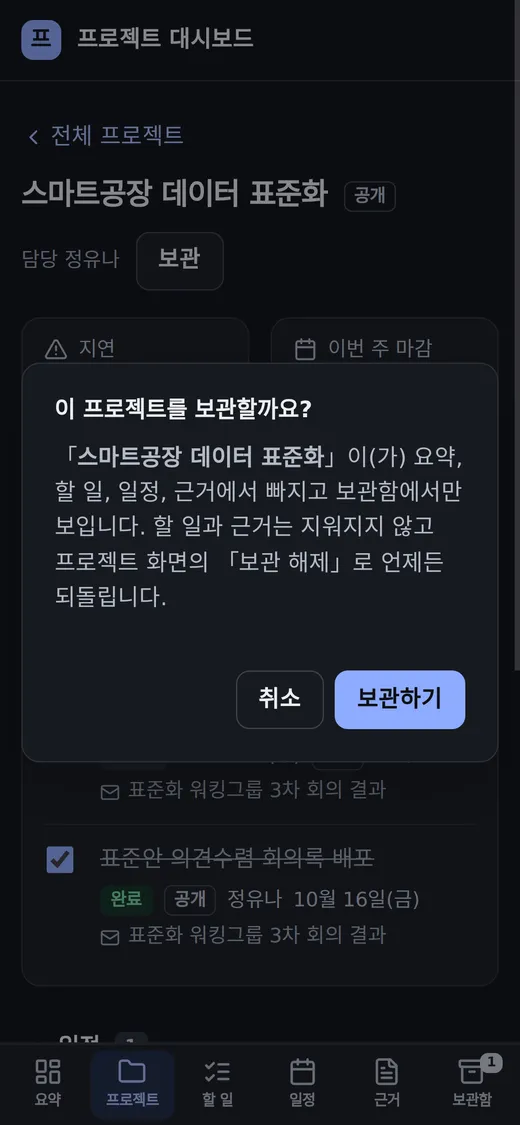
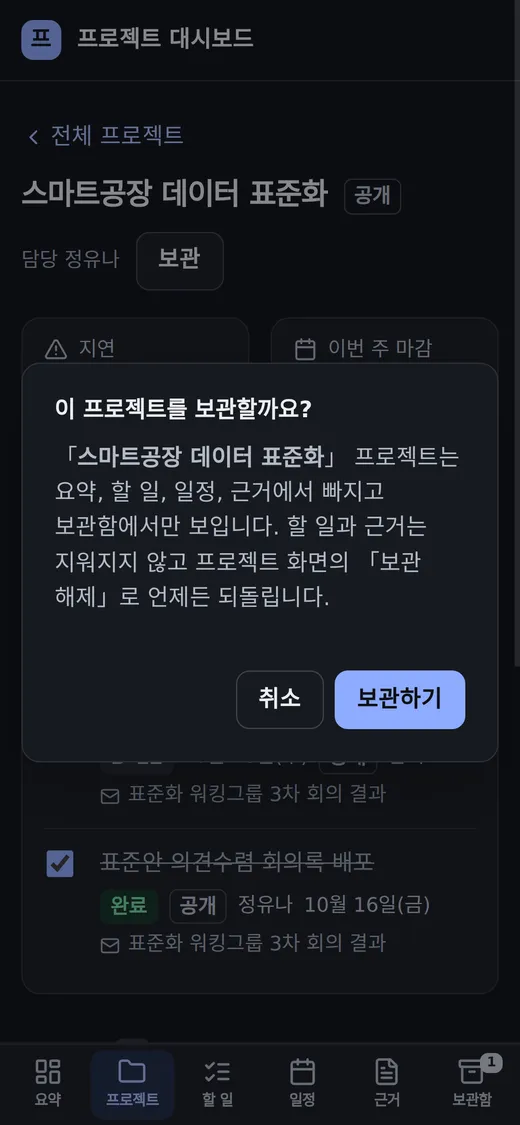
fix(project-board): visual QA round 3 - dates, compound nouns and short predicates kept together on phones, larger phone badges, a dialog sentence without the 이(가) template

diff --git a/automation/project_board/dashboard.py b/automation/project_board/dashboard.py
@@ -38,7 +38,7 @@ _SERVED_JS: Final = """
     var code=String(error&&error.message||'');
     if(code==='401'||code==='403'){return '권한이 없어 저장하지 못했습니다. 대시보드를 다시 열어 주세요.';}
     if(/^[0-9]+$/.test(code)){return '저장하지 못했습니다. 잠시 뒤 다시 시도해 주세요.';}
-    return '연결이 끊겨 저장하지 못했습니다. 연결을 확인하고 다시 눌러 주세요.';
+    return '연결이 끊겨 저장하지 못했습니다. 연결을\u00a0확인하고 다시 눌러 주세요.';
   }
   function note(after,text){
     var box=after.parentNode.querySelector('.row-error');
@@ -198,16 +198,16 @@ ONBOARDING: Final = (
     "<p>세 단계로 데이터가 들어옵니다. 지금은 아무것도 하지 않아도 됩니다.</p></div></div>"
     '<ol class="steps"><li><b>메일과 회의록을 읽습니다</b>'
     "<span>기관 메일과 확정 회의록에서 할\u00a0일, 담당, 마감을 찾아 제안합니다.</span></li>"
-    "<li><b>승인 카드로 확인합니다</b><span>제안은 승인 카드로 올라오고, 승인 카드에서 승인하면 데이터가 됩니다.</span></li>"
+    "<li><b>승인\u00a0카드로 확인합니다</b><span>제안은 승인\u00a0카드로 올라오고, 승인 카드에서 승인하면 데이터가 됩니다.</span></li>"
     "<li><b>여기서 진행을 챙깁니다</b><span>프로젝트별 할\u00a0일, 일정, 근거를 보고 체크로 완료를 남깁니다.</span></li></ol>"
-    '<p class="note">실제 데이터 없이 둘러보려면 이 명령으로 데모 보드를 띄웁니다.</p>'
+    '<p class="note">실제 데이터 없이 둘러보려면 이 명령으로 데모\u00a0보드를 띄웁니다.</p>'
     '<pre class="cmd"><code>python3 -m automation.project_board demo</code></pre></div>'
 )
 
 _ARCHIVE_DIALOG: Final = (
     '<dialog id="archive-dialog" aria-labelledby="archive-title"><form method="dialog">'
     '<h2 id="archive-title" tabindex="-1" autofocus>이 프로젝트를 보관할까요?</h2>'
-    '<p>「<b data-name></b>」이(가) 요약, 할\u00a0일, 일정, 근거에서 빠지고 보관함에서만 보입니다. '
+    '<p>「<b data-name></b>」 프로젝트는 요약, 할\u00a0일, 일정, 근거에서 빠지고 보관함에서만 보입니다. '
     "할\u00a0일과 근거는 지워지지 않고 프로젝트 화면의 「보관 해제」로 언제든 되돌립니다.</p>"
     '<p class="dialog-error" role="alert"></p>'
     '<div class="dialog-actions"><button class="btn" value="cancel">취소</button>'
@@ -231,7 +231,7 @@ def _md(day: str) -> str:
         moment = date.fromisoformat(day[:10])
     except ValueError:
         return day
-    return f"{moment.month}월 {moment.day}일({_WEEKDAYS[moment.weekday()]})"
+    return f"{moment.month}월\u00a0{moment.day}일\u2060({_WEEKDAYS[moment.weekday()]})"
 
 
 def _ago(stamp: str, now: str) -> str:
@@ -400,7 +400,7 @@ def _summary(snapshot: BoardSnapshot, today: date) -> str:
         for p in snapshot.pending:
             link = f' · <a href="{escape(p.thread_url, quote=True)}">승인 스레드 열기</a>' if p.thread_url else ""
             items.append(
-                f"<li><b>{escape(p.project)}</b> {_grade_badge(p.grade)} · 할 일 {p.todo_count}건 · "
+                f"<li><b>{escape(p.project)}</b> {_grade_badge(p.grade)} · 할\u00a0일\u00a0{p.todo_count}건 · "
                 f"근거 「{escape(p.source_subject)}」{link}</li>"
             )
         pending = (
@@ -409,7 +409,7 @@ def _summary(snapshot: BoardSnapshot, today: date) -> str:
             f'<ul class="small">{"".join(items)}</ul></div></div>'
         )
     withheld = (
-        f'<p class="note">보안 등급(대외비·기관지정) 할 일 {snapshot.withheld}건은 이 사본에서 뺐습니다.</p>'
+        f'<p class="note">보안 등급(대외비·기관지정) 할\u00a0일\u00a0{snapshot.withheld}건은 이 사본에서 뺐습니다.</p>'
         if snapshot.withheld
         else ""
     )
@@ -584,7 +584,7 @@ def _source_card(row: SourceRow, produced: list[TodoRow], mode: Mode, *, with_pr
     return (
         f'<div class="card src-card"><div class="top"><span>{" · ".join(top)}</span>{_grade_badge(row.grade)}</div>'
         f'{title}<p>{_keep(row.summary)}</p>{attachments}'
-        f'<div class="names">{icon("list")}<span>만든 할 일: {todos}</span></div></div>'
+        f'<div class="names">{icon("list")}<span>만든 할\u00a0일: {todos}</span></div></div>'
     )
 
 

diff --git a/automation/project_board/dashboard_theme.py b/automation/project_board/dashboard_theme.py
@@ -40,6 +40,8 @@ html{scroll-padding-top:80px;-webkit-text-size-adjust:100%}
 body{margin:0;background:var(--bg);color:var(--text);font:var(--t-md)/1.55 system-ui,-apple-system,BlinkMacSystemFont,
 "Apple SD Gothic Neo","Pretendard","Malgun Gothic","Noto Sans KR",sans-serif;letter-spacing:-.01em;
 word-break:keep-all;overflow-wrap:anywhere;font-variant-numeric:tabular-nums}
+p,li,.note,.sub,.what,dd,span{text-wrap:pretty}
+h1,h2,h3,summary b{text-wrap:balance}
 a{color:var(--accent-ink);text-decoration:none}
 a:hover{text-decoration:underline;text-underline-offset:3px}
 :focus-visible{outline:3px solid var(--accent);outline-offset:2px;border-radius:var(--r-sm)}
@@ -246,7 +248,7 @@ nav a .badge+.badge{display:none}
 nav a .badge.d-none{background:var(--neutral);color:var(--surface)}
 main{padding:var(--s5) var(--s4) var(--s6)}
 footer{padding:0 var(--s4) calc(80px + env(safe-area-inset-bottom))}
-:root{--t-md:17px;--t-sm:15px}
+:root{--t-md:17px;--t-sm:15px;--t-xs:15px}
 .card{padding:var(--s3) var(--s4)}
 .tile{padding:var(--s3) var(--s4)}
 .tile b{font-size:24px}
